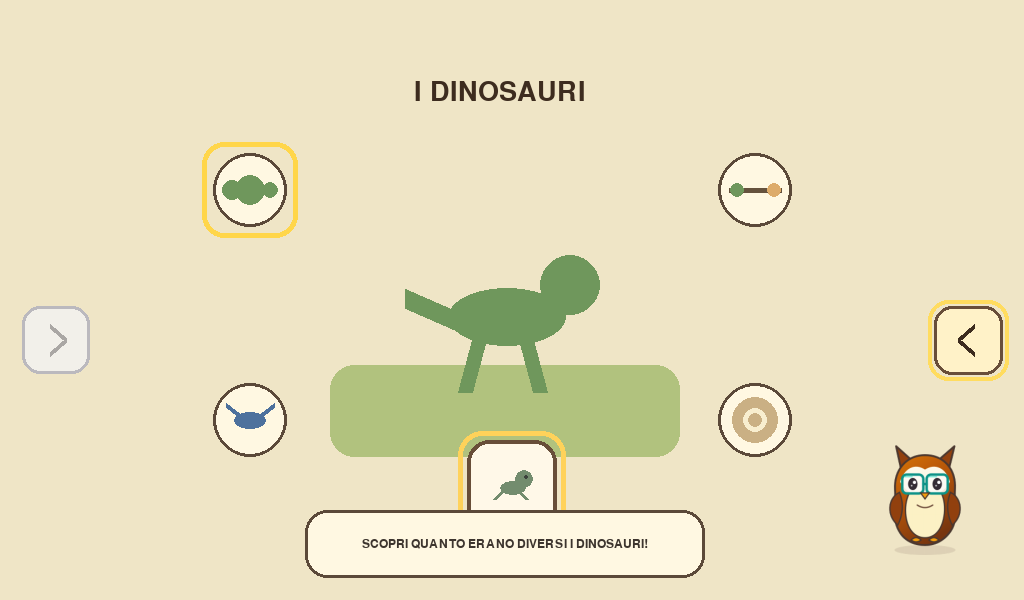
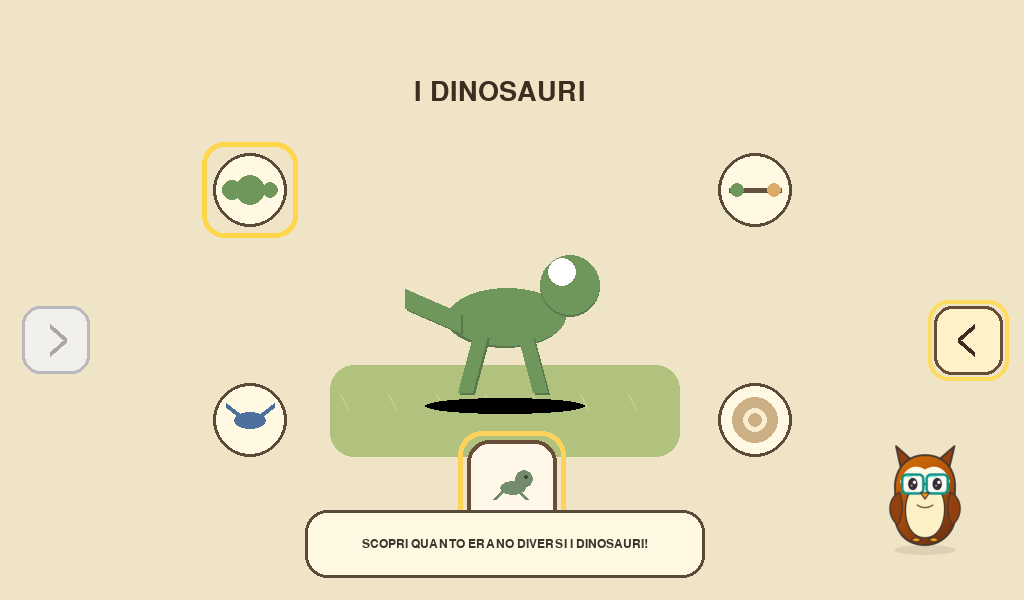
Encyclopedia: iterate history.dinosaurs - shadow + highlight + ground shadow
Iterative polish. Dinos now with ground shadow and highlight, more tactile.

diff --git a/activities/enciclopedia_greia/pages/dinosaurs.py b/activities/enciclopedia_greia/pages/dinosaurs.py
@@ -178,28 +178,51 @@ class DinosaursPage(EncyclopediaPage):
         draw_presenter(surface, self.context.visuals, "leo", position=(925, 565), height=142, variant="default")
 
     def _draw_scene(self, surface: pygame.Surface) -> None:
+        # Ground with subtle texture
         pygame.draw.rect(surface, (177, 194, 126), (330, 365, 350, 92), border_radius=24)
+        for gx in range(340, 670, 48):
+            pygame.draw.line(surface, (190, 208, 140), (gx, 395), (gx + 8, 410), 2)
         center = (505, 327)
         colors = ((111, 151, 92), (173, 128, 86), (104, 145, 111))
         color = colors[self._silhouette]
+        shadow_col = (90, 120, 75) if self._silhouette == 0 else (140, 105, 70) if self._silhouette == 1 else (80, 115, 85)
+        # Soft ground shadow
+        pygame.draw.ellipse(surface, (0, 0, 0, 22), (center[0] - 80, 398, 160, 16))
         if self._silhouette == 0:  # tyrannosaur-like biped
+            pygame.draw.ellipse(surface, shadow_col, (446, 290, 118, 58))
             pygame.draw.ellipse(surface, color, (448, 288, 118, 58))
+            pygame.draw.circle(surface, shadow_col, (570, 287), 30)
             pygame.draw.circle(surface, color, (570, 285), 30)
+            pygame.draw.circle(surface, (255, 255, 255, 18), (562, 272), 14)
+            pygame.draw.line(surface, shadow_col, (462, 324), (407, 300), 20)
             pygame.draw.line(surface, color, (460, 322), (405, 298), 20)
+            pygame.draw.line(surface, shadow_col, (482, 338), (467, 394), 15)
             pygame.draw.line(surface, color, (480, 336), (465, 392), 15)
+            pygame.draw.line(surface, shadow_col, (527, 338), (542, 394), 15)
             pygame.draw.line(surface, color, (525, 336), (540, 392), 15)
         elif self._silhouette == 1:  # ceratopsian-like quadruped
+            pygame.draw.ellipse(surface, shadow_col, (432, 302, 145, 62))
             pygame.draw.ellipse(surface, color, (430, 300, 145, 62))
+            pygame.draw.circle(surface, shadow_col, (586, 312), 34)
             pygame.draw.circle(surface, color, (586, 310), 34)
+            pygame.draw.circle(surface, (255, 255, 255, 16), (578, 296, 16))
+            pygame.draw.polygon(surface, shadow_col, [(573, 287), (607, 267), (603, 300)])
             pygame.draw.polygon(surface, color, [(573, 285), (607, 265), (603, 298)])
             for x in (455, 492, 535, 565):
+                pygame.draw.line(surface, shadow_col, (x, 344), (x - 4, 392), 13)
                 pygame.draw.line(surface, color, (x, 342), (x - 4, 390), 13)
         else:  # sauropod-like long neck
+            pygame.draw.ellipse(surface, shadow_col, (427, 312, 140, 55))
             pygame.draw.ellipse(surface, color, (425, 310, 140, 55))
+            pygame.draw.line(surface, shadow_col, (547, 324), (597, 247), 25)
             pygame.draw.line(surface, color, (545, 322), (595, 245), 25)
+            pygame.draw.circle(surface, shadow_col, (602, 238), 16)
             pygame.draw.circle(surface, color, (602, 236), 16)
+            pygame.draw.circle(surface, (255, 255, 255, 14), (596, 228, 8))
+            pygame.draw.line(surface, shadow_col, (440, 327), (384, 294), 20)
             pygame.draw.line(surface, color, (438, 325), (382, 292), 20)
             for x in (450, 485, 530, 555):
+                pygame.draw.line(surface, shadow_col, (x, 347), (x - 3, 395), 13)
                 pygame.draw.line(surface, color, (x, 345), (x - 3, 393), 13)
 
         if self._time_age > 0.0:
